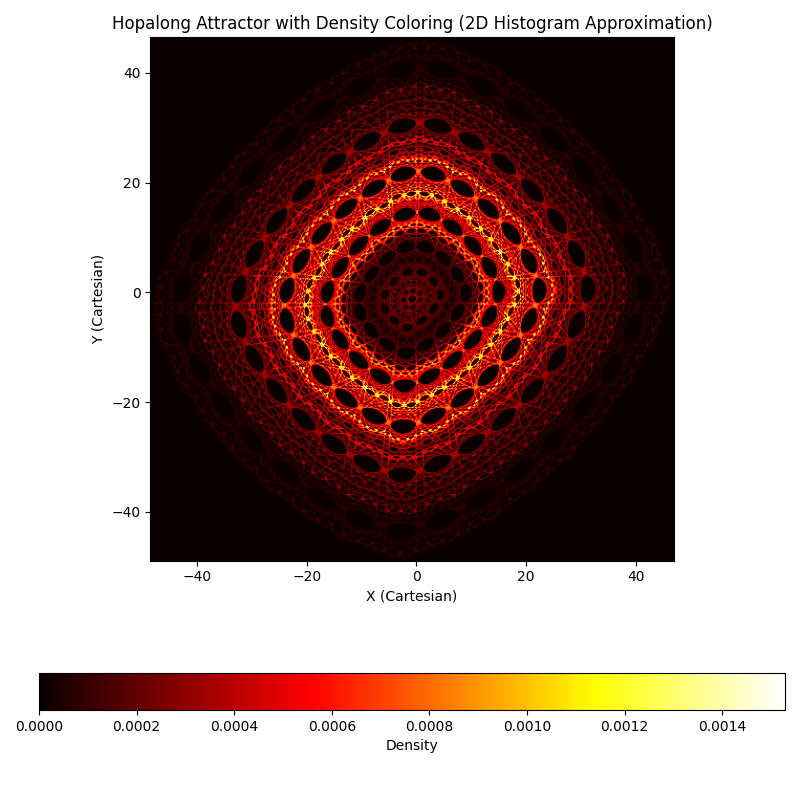
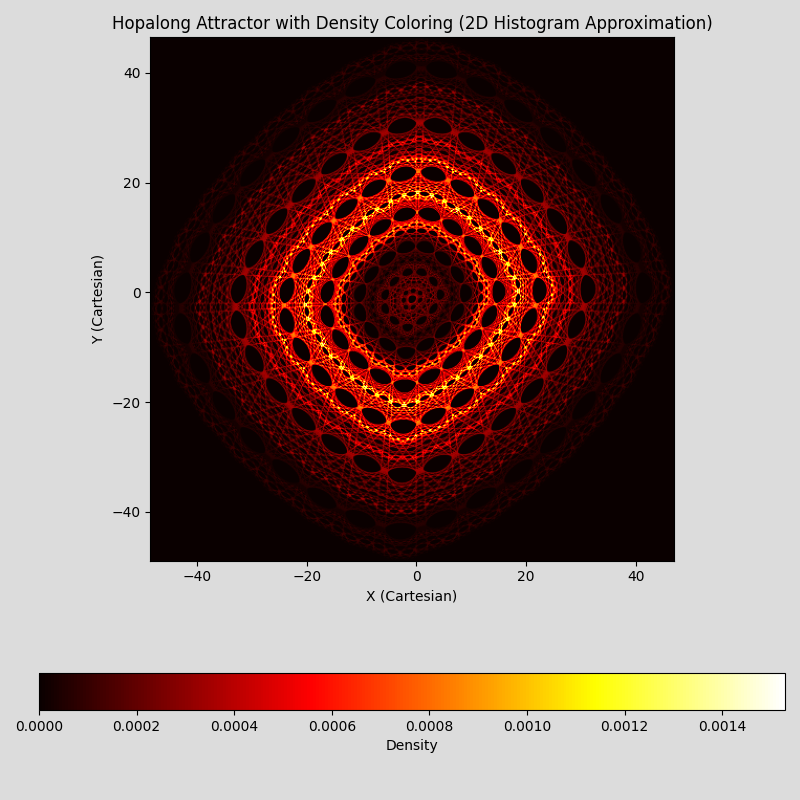
modified:   Development&Alternative_Solutions/actual/Probability Density Function/PDF_Hist_chunk_two_pass.py modified:   Development&Alternative_Solutions/actual/Probability Density Function/PDF_Hist_one_pass.py modified:   examples/true_PDF_histogram.png

diff --git a/Development&Alternative_Solutions/actual/Probability Density Function/PDF_Hist_one_pass.py b/Development&Alternative_Solutions/actual/Probability Density Function/PDF_Hist_one_pass.py
@@ -63,7 +63,7 @@ def plot_trajectory_with_density(trajectory):
     density, xedges, yedges = np.histogram2d(x, y, bins=bins, density=True)
     
     # Create a figure
-    fig = plt.figure(figsize=(8, 8))
+    fig = plt.figure(figsize=(8, 8),facecolor='gainsboro')
     ax = fig.add_subplot(1, 1, 1)
     
     # Plotting with density color mapping

diff --git a/Development&Alternative_Solutions/actual/Probability Density Function/PDF_Hist_chunk_two_pass.py b/Development&Alternative_Solutions/actual/Probability Density Function/PDF_Hist_chunk_two_pass.py
@@ -92,7 +92,7 @@ def render_pdf_histogram(histogram, extents, params, color_map='hot'):
     # Render the PDF histogram as an image
     
     # Create a figure
-    fig = plt.figure(figsize=(8, 8))
+    fig = plt.figure(figsize=(8, 8),facecolor='gainsboro')
     ax = fig.add_subplot(1, 1, 1)
 
     # Plotting with density color mapping
